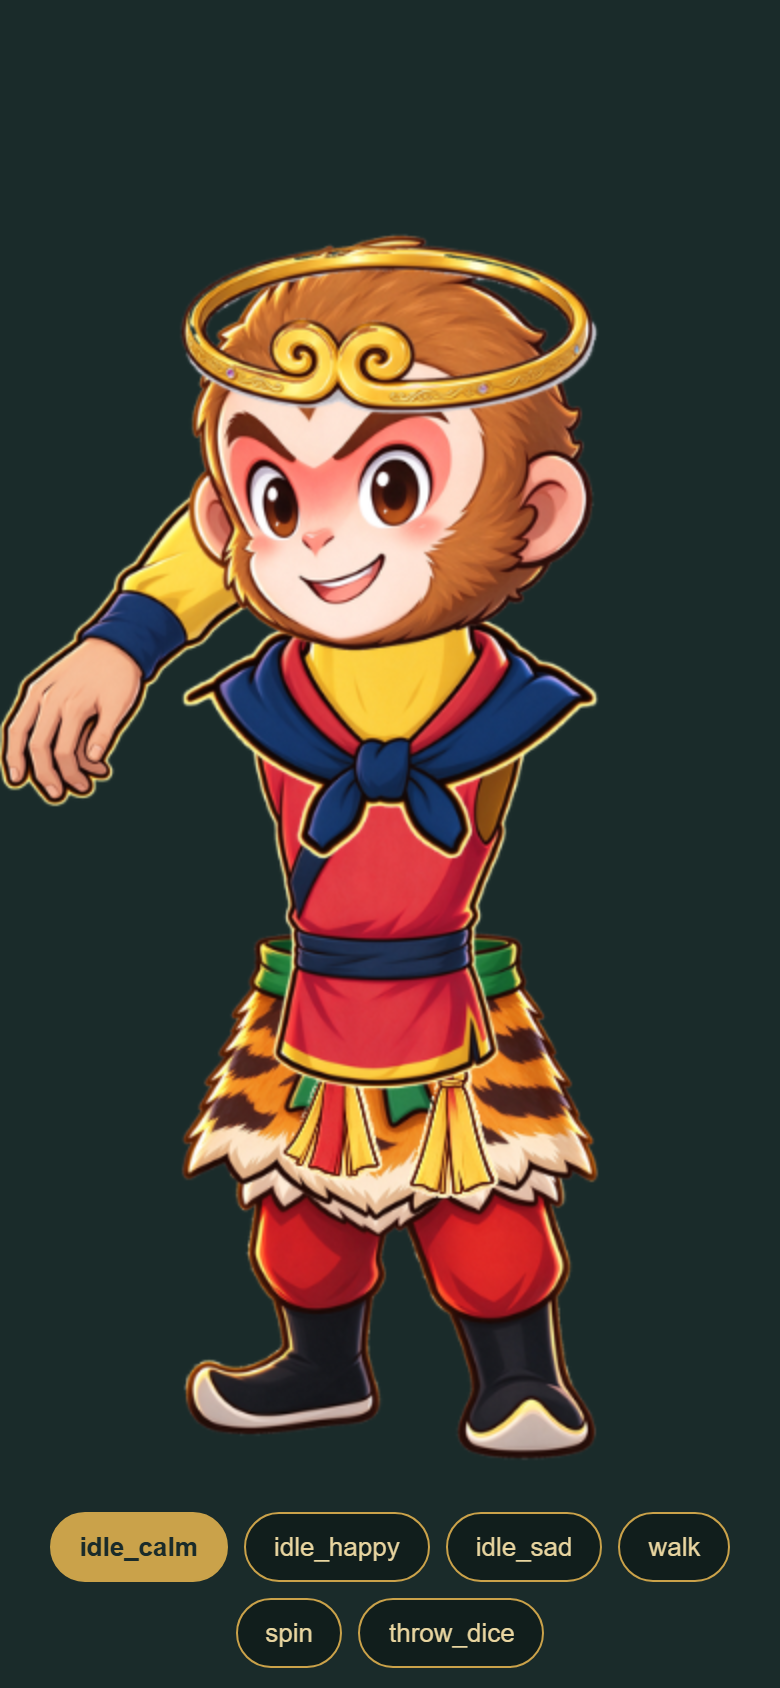
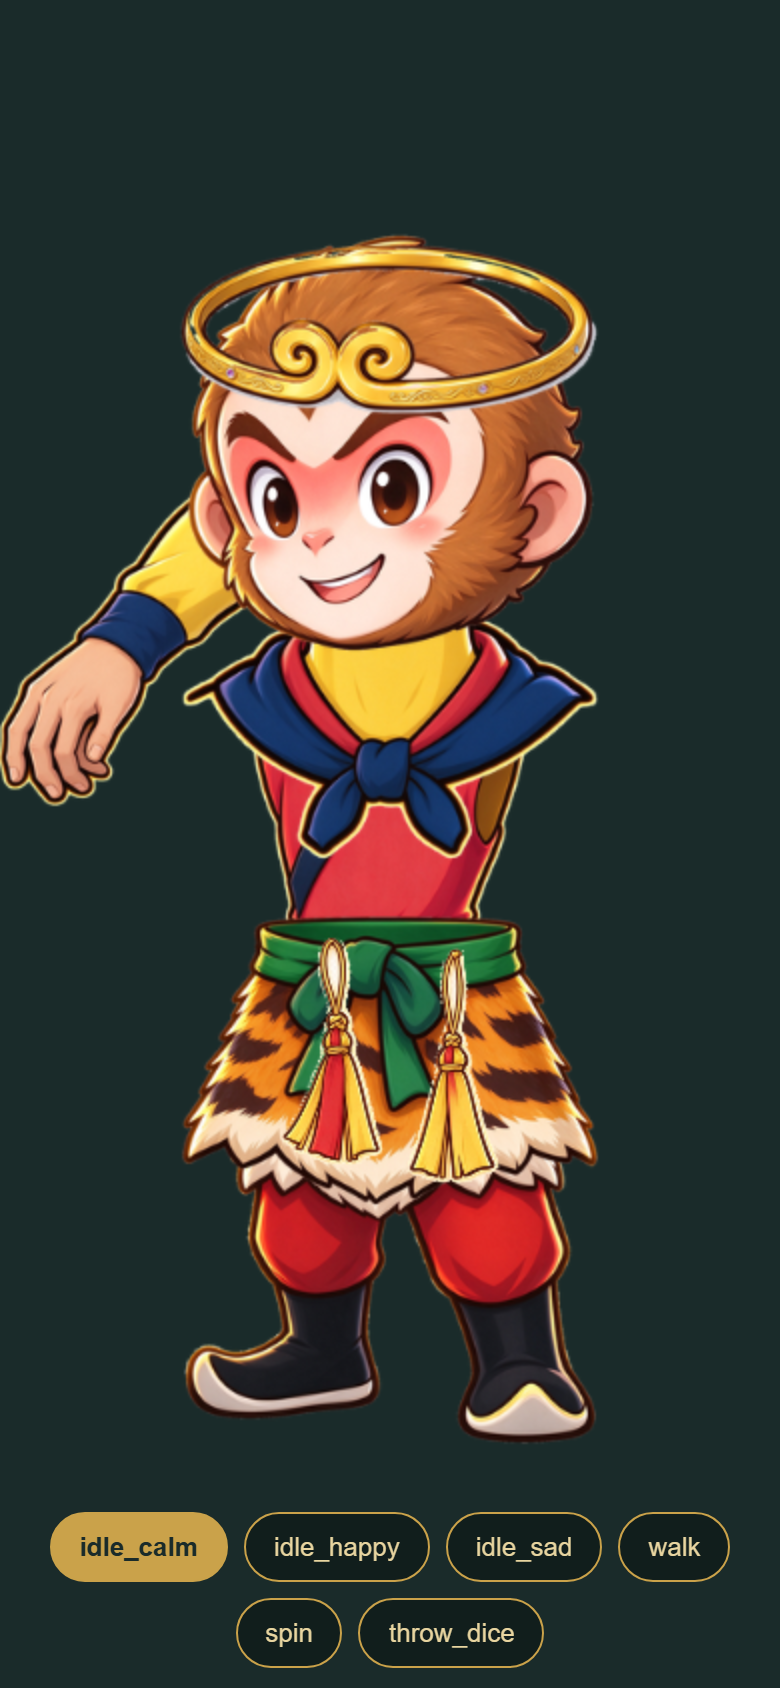
fix(mono-spine): 裙以下上移10/裙层置于衣服上/idle_happy+sad 加金箍头发一体件补发

Changed region(s): [[0.2154, 0.5237, 0.7692, 0.8626]]

diff --git a/monopoly/tools/spine-build/build_wukong.py b/monopoly/tools/spine-build/build_wukong.py
@@ -167,12 +167,12 @@ def build_skeleton():
     arm_y = round(torso_h * 0.28)
     arm_x = round(arm_w * 0.55)                                  # 臂骨外移：臂图心=骨心，防胸前交叉
     hand_y = round(arm_h * 0.62)                                 # 手随臂骨（槽内切换时臂图自带手，此骨备用）
-    skirt_y = round(leg_h * 0.12 + 80)                           # 裙上移 80（用户校准）：底缘露脚踝不埋地面
+    skirt_y = round(leg_h * 0.12 + 80 + 10)                      # 裙上移 80+10（用户校准）：底缘露脚踝不埋地面
 
     BONES = [
         ("root",     None,     0, 0, {}),
         ("hips",     "root",   0, hips_y, {}),
-        ("legs",     "hips",   0, 0, {}),
+        ("legs",     "hips",   0, 10, {}),                      # 腿随裙以下部位上移 10（用户校准）
         ("skirt_b",  "hips",   0, skirt_y, {}),
         ("spine",    "hips",   0, spine_y, {}),
         ("neck_b",   "spine",  0, neck_y, {}),
@@ -191,13 +191,13 @@ def build_skeleton():
 
     # slot: (name, bone, [附件语义名], default)
     SLOTS = [
-        # 绘制顺序=数组顺序（后者在上层）：腿/裙在最底，臂在躯干前、头在臂前，手/棒/骰/特效在最上
+        # 绘制顺序=数组顺序（后者在上层）：腿最底→躯干→裙/穗在衣服上→臂→头→手/棒/骰/特效最上
         ("legs",     "legs",    ["legs_idle", "legs_walk1", "legs_walk2", "legs_run1",
                                  "legs_run2", "legs_right", "legs_left",
                                  "legs_tiptoe_l", "legs_tiptoe_f"], "legs_idle"),
+        ("torso",    "spine",   ["torso", "torso_hands"], "torso"),
         ("skirt",    "skirt_b", ["skirt", "skirt2", "skirt_l", "skirt_r", "skirt_black"], "skirt"),
         ("tassel",   "skirt_b", ["tassel"], "tassel"),
-        ("torso",    "spine",   ["torso", "torso_hands"], "torso"),
         ("neck",     "neck_b",  ["neck_part"], "neck_part"),
         ("arm_l",    "arm_l",   ["arm_l_down", "arm_l_fork", "arm_l_fist", "arm_l_toss",
                                  "arm_l_open", "arm_l_grip", "arm_l_staff"], "arm_l_down"),
@@ -272,6 +272,7 @@ def build_animations():
     att("idle_happy", "arm_r", [(0, "arm_r_fist")])
     att("idle_happy", "arm_l", [(0, "arm_l_fist")])
     att("idle_happy", "head", [(0, "head_laugh")])
+    att("idle_happy", "headband", [(0, "headband_hair")])  # 金箍头发一体件：补头发，头发层在金箍上
     att("idle_happy", "legs", [(0, "legs_tiptoe_f"), (T / 2, "legs_idle"), (T, "legs_tiptoe_f")])
     tra("idle_happy", "hips", [(0, 0, 0), (T / 4, 0, 18), (T / 2, 0, 0),
                                (3 * T / 4, 0, 18), (T, 0, 0)])
@@ -281,6 +282,7 @@ def build_animations():
     # —— idle_sad：委屈头 + 双垂臂 + 低头塌胸 ——
     T = 3.0
     att("idle_sad", "head", [(0, "head_sad")])
+    att("idle_sad", "headband", [(0, "headband_hair")])  # 金箍头发一体件：补头发
     att("idle_sad", "arm_r", [(0, "arm_r_down")])
     att("idle_sad", "arm_l", [(0, "arm_l_down")])
     rot("idle_sad", "head", [(0, 0), (T / 3, 4), (T, 4)])
